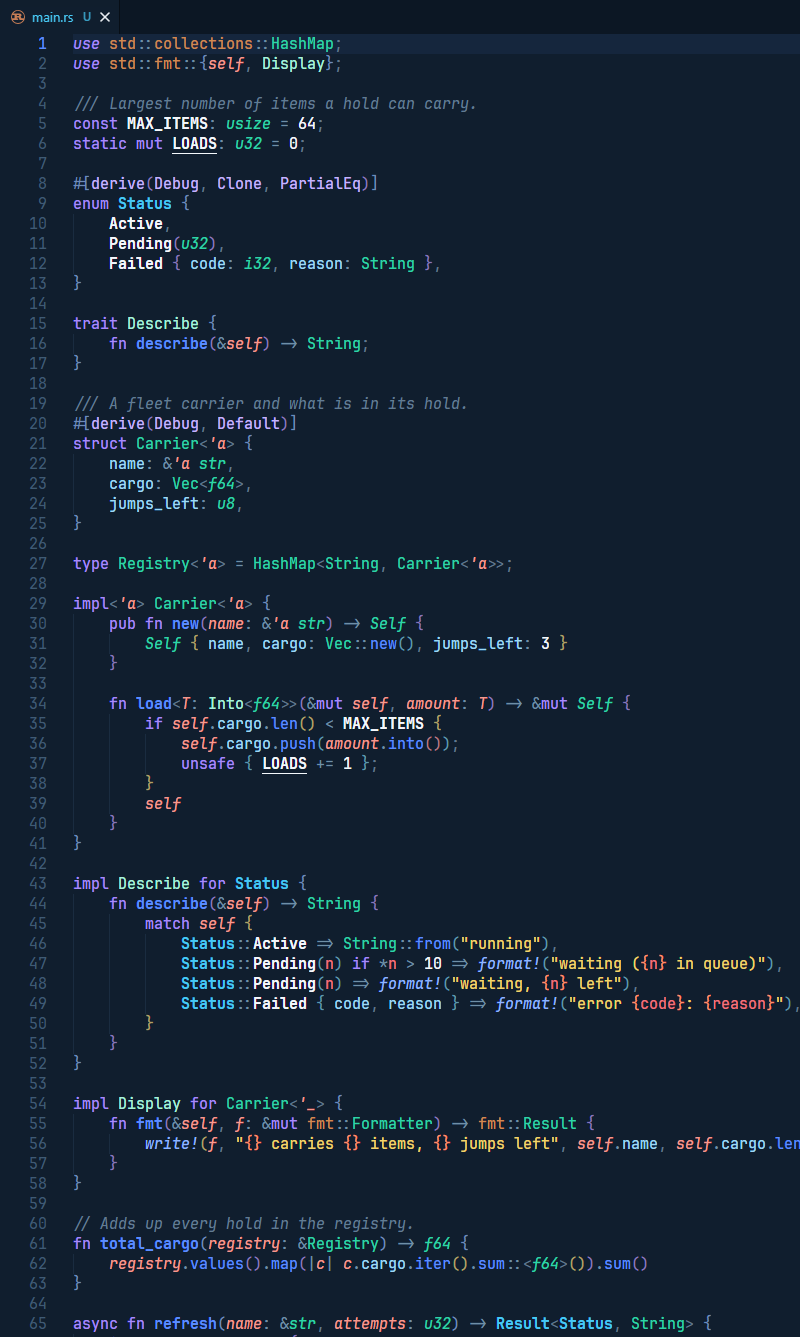
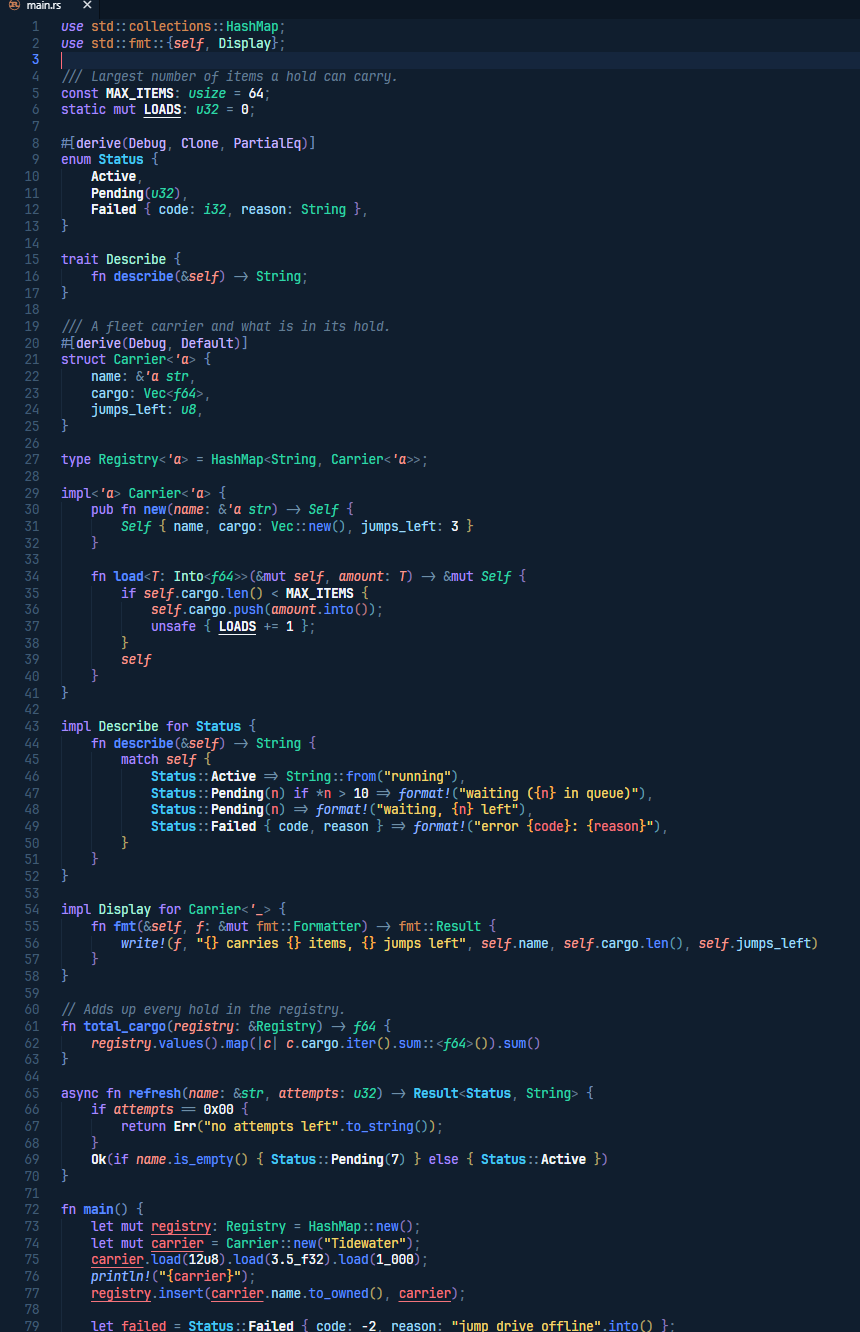
v0.4.5 - Redo the showcase images.

diff --git a/README.md b/README.md
@@ -19,14 +19,16 @@ Ion uses italic and bold a lot to tell similar tokens apart, so a font with real
 
 ## Variants
 
-### **Ion** - Dark Original Variant.
+### **Ion Atom** - Dark Original Variant
 
 ![dark](https://raw.githubusercontent.com/Saniee/Ion-Theme/main/images/ion-dark.png)
 
-### **Ion Light** - Light Variant
+### **Ion Atom Fusion** - Near-black Plasma Variant
+
+![fusion](https://raw.githubusercontent.com/Saniee/Ion-Theme/main/images/ion-fusion.png)
+
+### **Ion Atom Light** - Light Variant
 
 ![light](https://raw.githubusercontent.com/Saniee/Ion-Theme/main/images/ion-light.png)
-
-## License
 
 Released under the [GPL-3.0 license](LICENSE).

diff --git a/CHANGELOG.md b/CHANGELOG.md
@@ -1,5 +1,8 @@
 # Changelog
 
+## 0.4.5
+- Redone the showcase images.
+
 ## 0.4.4
 - TOML keys use the property color, matching JSON and YAML.
 - Markdown code blocks keep their language's colors instead of turning yellow.
